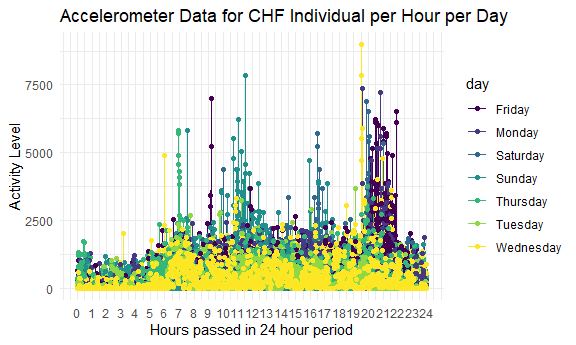
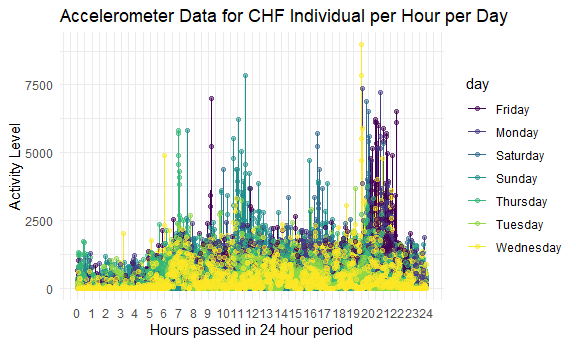
finally done thank god

diff --git a/p8105_hw3_waa2119.md b/p8105_hw3_waa2119.md
@@ -8,6 +8,7 @@ library(tidyverse)
 library(dplyr)
 library(p8105.datasets)
 library(patchwork)
+library(ggridges)
 
 knitr::opts_chunk$set(
   fig.width = 6,
@@ -167,7 +168,7 @@ ggplot(accel_data, aes(x = hours_in_day, y = activity_values, color = day)) +
   
   geom_line() + 
   
-  geom_point() + 
+  geom_point(alpha = 0.5) + 
   
   scale_x_continuous(breaks = c(0:24)) +
   
@@ -239,23 +240,9 @@ ny_noaa_structure = print(str(ny_noaa))
     ##   .. )
     ## NULL
 
-This data set from the National Oceanic and Atmospheric Association
-(NOAA) and contains records from over 100,000 stations in 180 countries
-and territories. NCEI provides numerous daily variables, including
-maximum and minimum temperature, total daily precipitation, snowfall,
-and snow depth; however, about one half of the stations report
-precipitation only. Both the record length and period of record vary by
-station and cover intervals ranging from less than a year to more than
-175 years.
-
-Our data set specifically contains weather observations only within the
-state of New York
-
-The entire data set structure is a tibble with the id, date, tmax, and
-tmin columns being characters and prcp, snow, and snwd columns being
-integers.
-
-The size of the data is 2595176, 7
+The ny_noaa data set has weather data from the National Oceanic and
+Atmospheric Association (NOAA) and specifically contains weather
+observations only within the entire state of New York.
 
 The key variables are id, date, prcp, snow, snwd, tmax, tmin
 
@@ -264,6 +251,12 @@ data was recorded, date is the date of observation, prcp is
 precipitation in tenths of mm, snow is recorded snowfall in mm, snwd is
 snow depth in mm, tmax is maximum temperature in tenths of celsius, and
 tmin is minimum temperature in tenths of celsius
+
+The entire data set structure is a tibble with the id, date, tmax, and
+tmin columns being characters and prcp, snow, and snwd columns being
+integers.
+
+The size of the data is 2595176, 7
 
 Some entries in the prcp, snow, snwd, tmax, and tmin values are missing
 (N/A) which does not allow for a robust analysis of this data
@@ -283,7 +276,7 @@ Now we will clean the data
 ``` r
 ny_noaa_tidy = 
   
-  sample_n(ny_noaa, 5000) %>%
+  ny_noaa %>%
   
   janitor::clean_names() %>%
   
@@ -323,13 +316,13 @@ ny_noaa_summary =
   
   summarize(mean_tmax = mean(tmax), na.rm = TRUE)
 
-ggplot(ny_noaa_summary, aes(x = Year, y = mean_tmax, group = id, color = Month)) +
+ggplot(ny_noaa_summary, aes(x = Year, y = mean_tmax, group = Year, color = Month)) +
   
-    geom_point(alpha = 0.5) + 
-  
-    geom_smooth(alpha = 0.3, se = FALSE) +
+    geom_boxplot() + 
   
     facet_grid(. ~ Month) +
+  
+    scale_color_manual(values = c("January" = "blue", "July" = "red")) + 
   
     theme(legend.position = "none") + 
   
@@ -342,10 +335,12 @@ ggplot(ny_noaa_summary, aes(x = Year, y = mean_tmax, group = id, color = Month))
 
 <img src="p8105_hw3_waa2119_files/figure-gfm/unnamed-chunk-8-1.png" width="90%" />
 
-The average temperatures are observably higher in July in New York
-compared to January, some years contain outliers as January can be seen
-having anomalous low temperatures and July has years with anomalous high
-temperatures outside the main cluster of data points.
+The average maximum temperatures are observably higher in July in New
+York compared to January with January ranging between -5 to 5 degrees
+Celsius per year and July being consistently between 25 - 30 degrees
+Celsius every year. Some years contain outliers as January can be seen
+having anomalous low and high temperatures and July frequently has years
+with anomalous low temperatures outside the main cluster of data points.
 
 Now we will make a two-panel plot showing tmax vs tmin for the full
 dataset and a plot showing the distribution of snowfall values greater
@@ -364,7 +359,7 @@ max_min_temp_graph =
   
   labs(
     
-    title = "NY Weather Stations Temps",
+    title = "NY Statewide Temps",
     
     y = "Maximum Temperature (C)",
     
@@ -378,25 +373,28 @@ snowfall_dist =
   
   ny_noaa_tidy %>%
   
-  filter(snow > 0 & snow < 100) %>%
+  filter(snow > 0 & snow < 100)
   
-  group_by(Year) %>%
-  
-  summarize(count = n())
 
 snowfall_dist_graph = 
   
-  ggplot(snowfall_dist, aes(x = Year, y = count)) + 
+  ggplot(snowfall_dist, aes(x = snow, y = Year, group = Year, fill = Year)) + 
   
-  geom_line(color = "blue") + 
+  geom_density_ridges() + 
   
-  theme(legend.position = "none") + 
+  theme(legend.position = "right") + 
+  
+  scale_x_continuous(breaks = seq(0, 100, by = 20)) +
+  
+  scale_y_continuous(breaks = c(1980, 1985, 1990, 1995, 2000, 2005, 2010)) + 
   
   labs(
     
-    title = "Snowfall 0-100 mm per Year",
+    title = "Snowfall per Year in NY",
     
-    y = "Total Days")
+    y = "Year", 
+    
+    x = "Snowfall (mm)")
 ```
 
 Patching these two plots together..
@@ -410,7 +408,9 @@ max_min_temp_graph + snowfall_dist_graph
 We can see that maximum and minimum temperatures in New York have a
 positively linear correlation. This makes sense as we would expect a
 high minimum temperature value to correlate with a high maximum
-temperature value and vice versa. The number of days with snowfall
-between 0 and 100 mm varies drastically each year. Some years have very
-little, if any days, with snowfall while many have over 12 days and some
-have over 20 days with snowfall between 0 and 100 mm.
+temperature value and vice versa. There are some outliers in this plot
+but overall it shows a positively linear correlation. In the snowfall
+density graph we see that the most frequent values are between 0 - 25 mm
+of snowfall per year, and each year has a very similar distribution as
+almost every year received 50 and 75 mm of snow in addition to the main
+distribution being between 0 - 25 mm.
